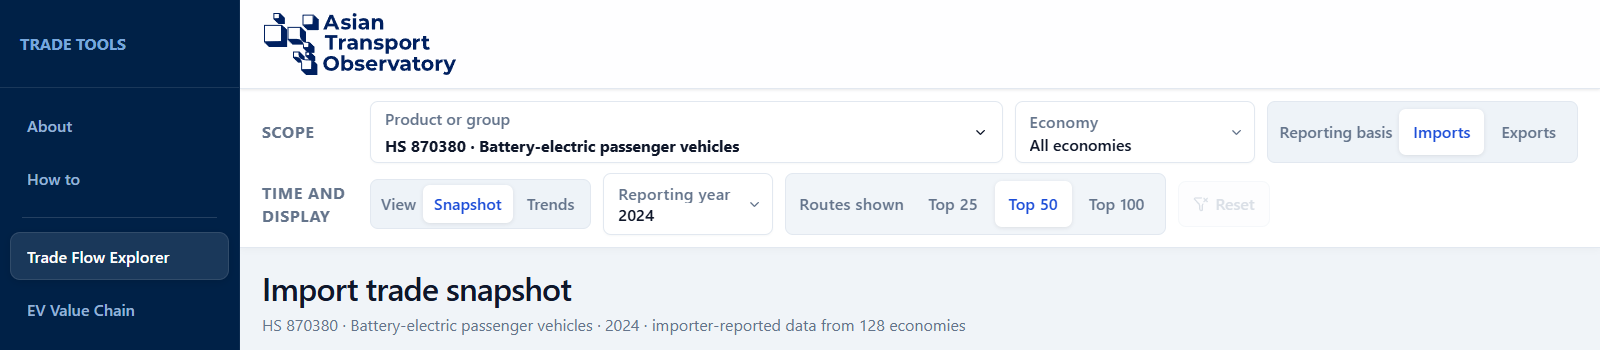
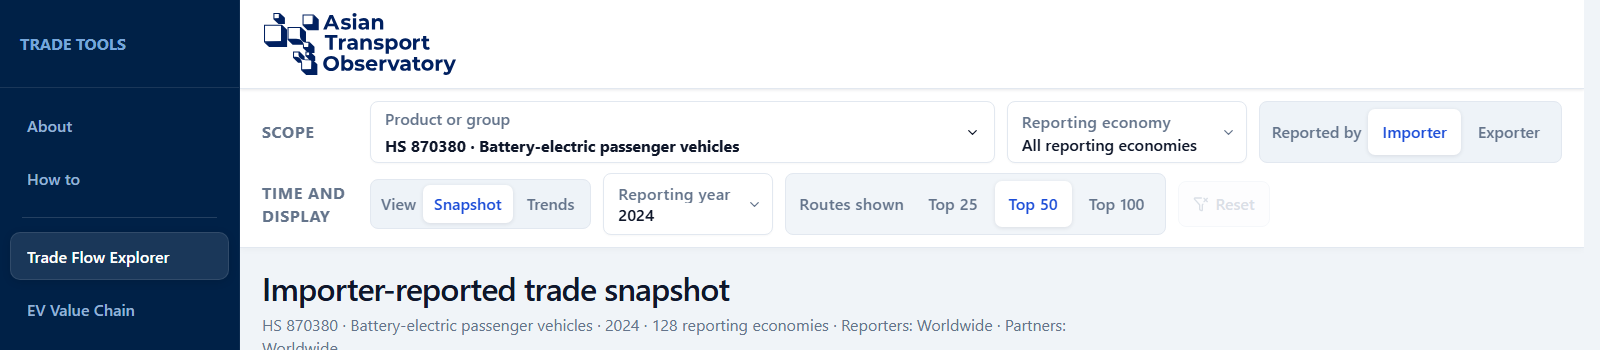
Clarify reporting scope and update user guidance

diff --git a/src/TradeExplorerApp.jsx b/src/TradeExplorerApp.jsx
@@ -1532,7 +1532,7 @@ function RouteDetail({ route, productLabel, reportingMode, year, onClose }) {
       <div className="detail-scroll">
         <div className="route-value-block">
           <span>
-            {reportingMode === "exports" ? "Export" : "Import"} value reported by {reportingMode === "exports" ? route.supplierName : route.importerName}
+            Reported by {reportingMode === "exports" ? route.supplierName : route.importerName} as an {reportingMode === "exports" ? "export" : "import"}
           </span>
           <strong>{formatDetailedUsd(route.value)}</strong>
         </div>
@@ -2702,7 +2702,7 @@ export default function TradeExplorerApp() {
               <div class="map-popup__dot" style="background:#2563eb"></div>
               <div>
                 <strong>${escapeHtml(props.supplier)} → ${escapeHtml(props.importer)}</strong>
-                <span>Reported by the ${reportingModeRef.current === "exports" ? "exporting" : "importing"} economy</span>
+                <span>Reported by ${escapeHtml(reportingModeRef.current === "exports" ? props.supplier : props.importer)} as an ${reportingModeRef.current === "exports" ? "export" : "import"}</span>
                 <p>${escapeHtml(formatUsdThousand(Number(props.value), 2))}</p>
               </div>
             </div>`,
@@ -2947,7 +2947,7 @@ export default function TradeExplorerApp() {
             <span>
               <strong>Filters</strong>
               <small>
-                {selectedProductLabel} · {reportingMode === "exports" ? "Exports" : "Imports"} · {analysisView === "snapshot" ? year : `${trendStartYear}–${trendEndYear}`} · {countryEconomy?.name || "All economies"}
+                {selectedProductLabel} · {reportingMode === "exports" ? "Exporter-reported" : "Importer-reported"} · {analysisView === "snapshot" ? year : `${trendStartYear}–${trendEndYear}`} · {countryEconomy?.name || "All reporting economies"}
               </small>
             </span>
             <ChevronDown size={16} />
@@ -2964,7 +2964,7 @@ export default function TradeExplorerApp() {
           />
 
           <label className="select-wrap select-wrap--country">
-            <span>Economy</span>
+            <span>Reporting economy</span>
             <select
               value={countryEconomyIndex ?? ""}
               onChange={(event) => {
@@ -2974,9 +2974,9 @@ export default function TradeExplorerApp() {
                 setSelectedEconomyIndex(null);
                 setConnectionMode("all");
               }}
-              aria-label="Economy"
+              aria-label="Reporting economy"
             >
-              <option value="">All economies</option>
+              <option value="">All reporting economies</option>
               {countryOptions.map((economy) => (
                 <option key={economy.economyIndex} value={economy.economyIndex}>
                   {economy.name}
@@ -2986,8 +2986,8 @@ export default function TradeExplorerApp() {
             <ChevronDown size={15} />
           </label>
 
-          <div className="reporting-mode-filter" aria-label="Reporting basis">
-              <span>Reporting basis</span>
+          <div className="reporting-mode-filter" aria-label="Reported by">
+              <span>Reported by</span>
               <div>
                 <Segment
                   active={reportingMode === "imports"}
@@ -2997,7 +2997,7 @@ export default function TradeExplorerApp() {
                     setSelectedEconomyIndex(null);
                   }}
                 >
-                  Imports
+                  Importer
                 </Segment>
                 <Segment
                   active={reportingMode === "exports"}
@@ -3007,7 +3007,7 @@ export default function TradeExplorerApp() {
                     setSelectedEconomyIndex(null);
                   }}
                 >
-                  Exports
+                  Exporter
                 </Segment>
               </div>
           </div>
@@ -3157,17 +3157,17 @@ export default function TradeExplorerApp() {
             <div>
               <h1>
                 {countryEconomy ? `${countryEconomy.name} · ` : ""}
-                {`${reportingMode === "exports" ? "Export" : "Import"} ${
+                {`${reportingMode === "exports" ? "Exporter" : "Importer"}-reported ${
                   analysisView === "snapshot" ? "trade snapshot" : "trends"
                 }`}
               </h1>
               {analysisView === "snapshot" ? (
                 <p>
-                  {selectedProductLabel} · {year} · {reportingMode === "exports" ? "exporter" : "importer"}-reported data{countryEconomy ? ` for ${countryEconomy.name}` : ` from ${analysis.reporters} economies`}
+                  {selectedProductLabel} · {year}{countryEconomy ? ` · ${countryEconomy.name} reporting` : ` · ${analysis.reporters} reporting economies`} · Reporters: Worldwide · Partners: Worldwide
                 </p>
               ) : (
                 <p>
-                  {selectedProductLabel} · {trendStartYear}–{trendEndYear}{countryEconomy ? ` · ${countryEconomy.name}` : " · economies with complete annual data"}
+                  {selectedProductLabel} · {trendStartYear}–{trendEndYear}{countryEconomy ? ` · ${countryEconomy.name} reporting` : " · economies with complete annual data"} · Reporters: Worldwide · Partners: Worldwide
                 </p>
               )}
             </div>
@@ -3276,10 +3276,10 @@ export default function TradeExplorerApp() {
             <div className="result-pill">
               {selectedEconomy
                 ? connectionMode === "imports"
-                  ? `${mapPayload.lines.features.length} imports to ${selectedEconomy.name}`
+                  ? `${mapPayload.lines.features.length} incoming routes to ${selectedEconomy.name} · worldwide reporters`
                   : connectionMode === "exports"
-                    ? `${mapPayload.lines.features.length} exports from ${selectedEconomy.name}`
-                    : `${mapPayload.lines.features.length} routes for ${selectedEconomy.name}`
+                    ? `${mapPayload.lines.features.length} outgoing routes from ${selectedEconomy.name} · worldwide reporters`
+                    : `${mapPayload.lines.features.length} routes involving ${selectedEconomy.name} · worldwide reporters`
                 : `${mapPayload.lines.features.length} routes shown`}
             </div>
             {selectedEconomy ? (
@@ -3287,12 +3287,12 @@ export default function TradeExplorerApp() {
                 className="connection-mode-filter"
                 aria-label={`Connections for ${selectedEconomy.name}`}
               >
-                <span>Connection type</span>
+                <span>Direction at {selectedEconomy.name}</span>
                 <div>
                   {[
                     ["all", "All", selectedConnections.all.length],
-                    ["imports", "Imports", selectedConnections.imports.length],
-                    ["exports", "Exports", selectedConnections.exports.length],
+                    ["imports", "Into", selectedConnections.imports.length],
+                    ["exports", "Out of", selectedConnections.exports.length],
                   ].map(([mode, label, count]) => (
                     <Segment
                       key={mode}
@@ -3312,11 +3312,11 @@ export default function TradeExplorerApp() {
                 <>
                   <span>
                     <i className="legend-line legend-line--import" />
-                    Imports to {selectedEconomy.name}
+                    Incoming routes to {selectedEconomy.name}
                   </span>
                   <span>
                     <i className="legend-line legend-line--export" />
-                    Exports from {selectedEconomy.name}
+                    Outgoing routes from {selectedEconomy.name}
                   </span>
                 </>
               ) : null}
@@ -3325,7 +3325,7 @@ export default function TradeExplorerApp() {
               <span><i className="legend-both" />Both roles</span>
               <small>
                 {selectedEconomy
-                  ? "Node size shows total trade. Blue routes are imports to the selected economy; orange routes are exports from it. Reset the map to select another economy."
+                  ? "Node size shows total trade. Blue routes enter the selected economy; orange routes leave it. Reset the map to select another economy."
                   : `Click an economy to show its routes. Node size shows total trade; line width shows the ${reportingMode === "exports" ? "exporter" : "importer"}-reported value.`}
               </small>
             </div>

diff --git a/src/HowToPage.jsx b/src/HowToPage.jsx
@@ -55,39 +55,39 @@ function DefinitionGroups({ groups }) {
 }
 
 const NAVIGATION_CALLOUTS = [
-  { marker: "A", label: "Choose an analysis page from the navigation panel.", left: "1%", top: "3%", width: "13%", height: "94%" },
-  { marker: "B", label: "Select a product, product group or combination of compatible HS codes.", left: "22.8%", top: "28%", width: "39.7%", height: "20%" },
-  { marker: "C", label: "Set the economy and choose importer- or exporter-reported trade.", left: "63.6%", top: "28%", width: "35.1%", height: "20%" },
+  { marker: "A", label: "Choose an analysis page from the navigation panel.", left: "0.6%", top: "3%", width: "13.8%", height: "94%" },
+  { marker: "B", label: "Select a product, product group or combination of compatible HS codes.", left: "23.1%", top: "28.5%", width: "36.7%", height: "18%" },
+  { marker: "C", label: "Choose a reporting economy and whether the importer or exporter reported the trade.", left: "60%", top: "28.5%", width: "37.7%", height: "18%" },
   { marker: "D", label: "Choose a snapshot year or a trend period. Route limits apply to the map and table.", left: "22.8%", top: "50%", width: "57.1%", height: "17%" },
 ];
 
 const SNAPSHOT_CALLOUTS = [
-  { marker: "A", label: "Read total reported trade and partner concentration for the current selection.", left: "1.2%", top: "9%", width: "97.4%", height: "16.5%" },
-  { marker: "B", label: "Switch between the route map and table. Both follow the Routes shown setting.", left: "1.2%", top: "27%", width: "97.4%", height: "6%" },
-  { marker: "C", label: "Select an economy to focus on its connections. Reset the map before choosing another.", left: "1.2%", top: "36%", width: "97.4%", height: "62.5%" },
-  { marker: "D", label: "Use the map key to interpret node roles, routes and values.", left: "2.2%", top: "70%", width: "20%", height: "28%" },
+  { marker: "A", label: "Read total reported trade and partner concentration for the current selection.", left: "1.5%", top: "12.2%", width: "97.2%", height: "15.6%" },
+  { marker: "B", label: "Switch between the route map and table. Both follow the Routes shown setting.", left: "1.5%", top: "29.7%", width: "97.2%", height: "5%" },
+  { marker: "C", label: "Select an economy to focus on its connections. Reset the map before choosing another.", left: "1.5%", top: "38%", width: "97.2%", height: "61.5%" },
+  { marker: "D", label: "Use the map key to interpret node roles, routes and values.", left: "2.4%", top: "71%", width: "19.8%", height: "27.4%" },
 ];
 
 const TRENDS_CALLOUTS = [
-  { marker: "A", label: "Check reporting coverage across the selected period.", left: "1%", top: "9%", width: "98%", height: "10%" },
-  { marker: "B", label: "Compare the endpoints for trade value, growth and concentration.", left: "1%", top: "20%", width: "98%", height: "11%" },
-  { marker: "C", label: "Follow annual trade value and select a point for the exact figure.", left: "1%", top: "32%", width: "98%", height: "29%" },
-  { marker: "D", label: "Compare partner shares and changes in the HHI concentration measure.", left: "1%", top: "62%", width: "98%", height: "36%" },
+  { marker: "A", label: "Check reporting coverage across the selected period.", left: "1.4%", top: "9%", width: "97.2%", height: "8.6%" },
+  { marker: "B", label: "Compare the endpoints for trade value, growth and concentration.", left: "1.4%", top: "18.8%", width: "97.2%", height: "9.4%" },
+  { marker: "C", label: "Follow annual trade value and select a point for the exact figure.", left: "1.4%", top: "29.5%", width: "97.2%", height: "29.9%" },
+  { marker: "D", label: "Compare partner shares and changes in the HHI concentration measure.", left: "1.4%", top: "60.7%", width: "97.2%", height: "34.2%" },
 ];
 
 const VALUE_CHAIN_CALLOUTS = [
-  { marker: "A", label: "Choose the year, material focus and reporting basis.", left: "43%", top: "3.5%", width: "55.5%", height: "8%" },
-  { marker: "B", label: "Read the chart from material scope through the five trade stages to end users.", left: "1%", top: "22%", width: "98%", height: "10%" },
-  { marker: "C", label: "Follow the named bilateral relationships; remaining trade is grouped under Other economies.", left: "1%", top: "30.5%", width: "98%", height: "61%" },
-  { marker: "D", label: "Compare the full trade total reported for each stage.", left: "1%", top: "93.5%", width: "98%", height: "5.5%" },
+  { marker: "A", label: "Choose the year, material focus and reporting basis.", left: "56.5%", top: "4.6%", width: "41.4%", height: "6.7%" },
+  { marker: "B", label: "Read the chart from material scope through the five trade stages to end users.", left: "2%", top: "20.4%", width: "96%", height: "8.4%" },
+  { marker: "C", label: "Follow the named bilateral relationships; remaining trade is grouped under Other economies.", left: "2%", top: "28.4%", width: "96%", height: "63.5%" },
+  { marker: "D", label: "Compare the full trade total reported for each stage.", left: "2%", top: "92%", width: "96%", height: "5.1%" },
 ];
 
 const FILTER_DEFINITIONS = [{
   title: "Trade filters",
   items: [
     { term: "Product or group", description: "Selects one HS product, a predefined group or several compatible product codes. Overlapping broad and detailed codes cannot be combined." },
-    { term: "Economy", description: "Shows the selected economy’s reported trade. All economies combines available reporting economies." },
-    { term: "Reporting basis", description: "Imports uses reports submitted by importing economies; Exports uses reports submitted by exporting economies." },
+    { term: "Reporting economy", description: "Shows trade reported by the selected economy. All reporting economies combines reporters with available data." },
+    { term: "Reported by", description: "Importer uses declarations submitted by importing economies; Exporter uses declarations submitted by exporting economies." },
     { term: "Snapshot", description: "Shows one reporting year." },
     { term: "Trends", description: "Compares annual results across a selected period." },
     { term: "Routes shown", description: "Limits the map and table to the 25, 50 or 100 largest bilateral routes. It does not change headline totals or the full-value Sankey." },
@@ -102,6 +102,7 @@ const SNAPSHOT_DEFINITIONS = [{
     { term: "Supplier economy", description: "The origin economy in a bilateral relationship." },
     { term: "Importing economy", description: "The destination economy in a bilateral relationship." },
     { term: "Both roles", description: "An economy appearing as both a supplier and an importer in the displayed network." },
+    { term: "Direction at a selected economy", description: "Into and Out of describe the route direction at the economy selected on the map. This is separate from who reported the trade." },
     { term: "Other economies", description: "Relationships included in the Sankey total but not individually named." },
   ],
 }];

diff --git a/src/AboutPage.jsx b/src/AboutPage.jsx
@@ -57,7 +57,7 @@ export default function AboutPage() {
               available.
             </p>
             <p>
-              Values are annual reporter-reported imports or exports from UN Comtrade
+              Values are annual importer-reported or exporter-reported trade from UN Comtrade
               and are presented in current US dollars. Importer and exporter reports
               may differ because of valuation, timing, partner attribution,
               transshipment and reporting practices. Missing observations are not
